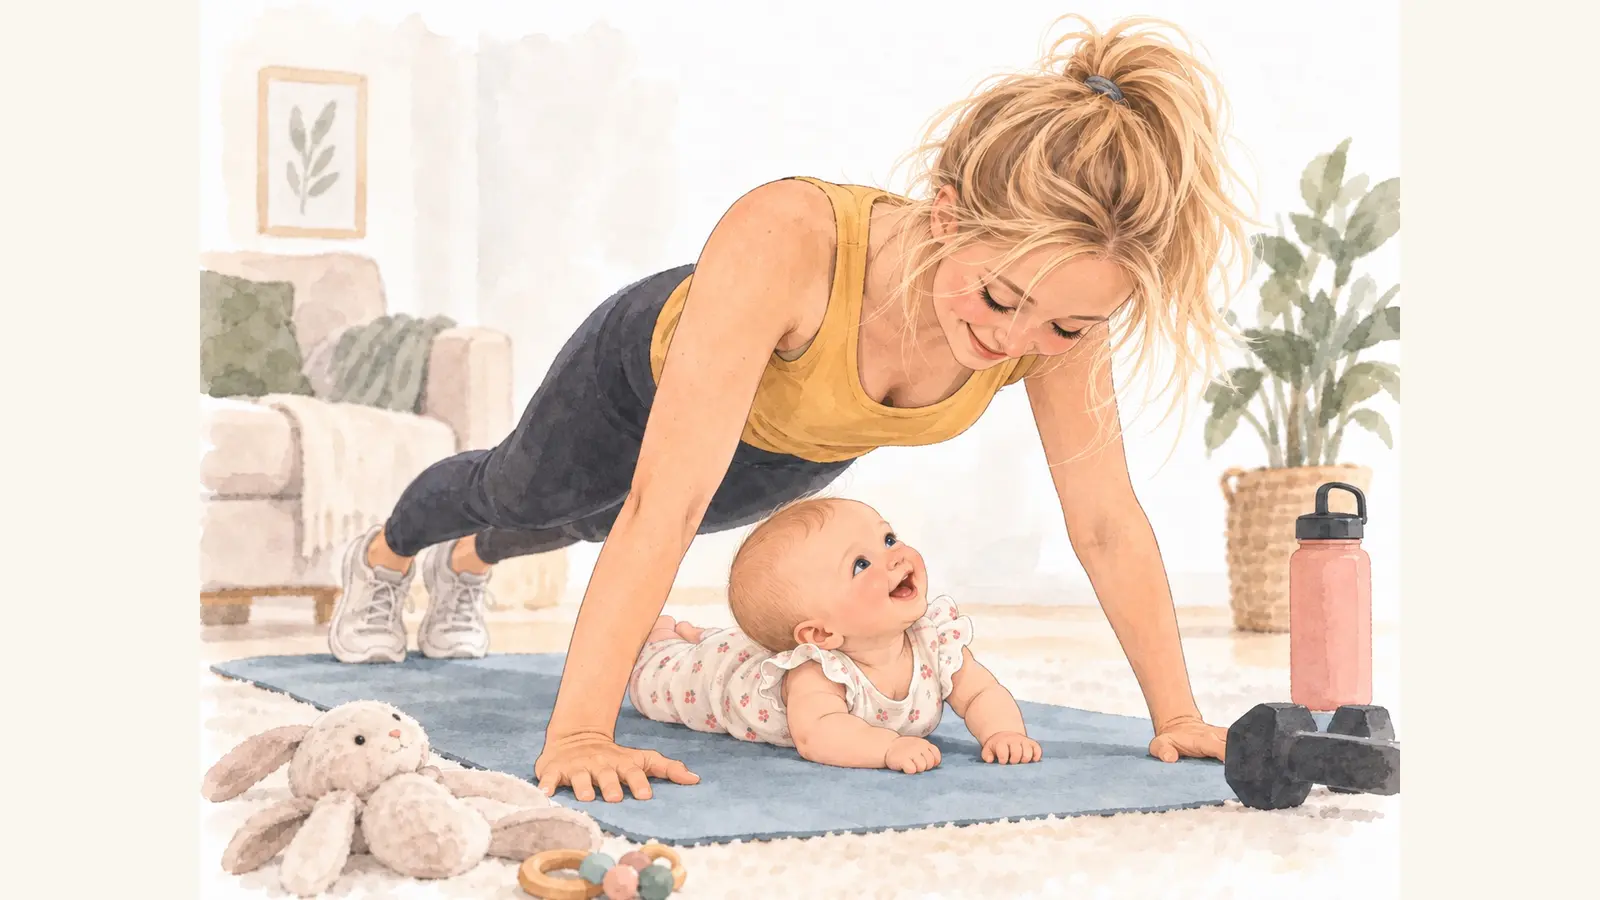
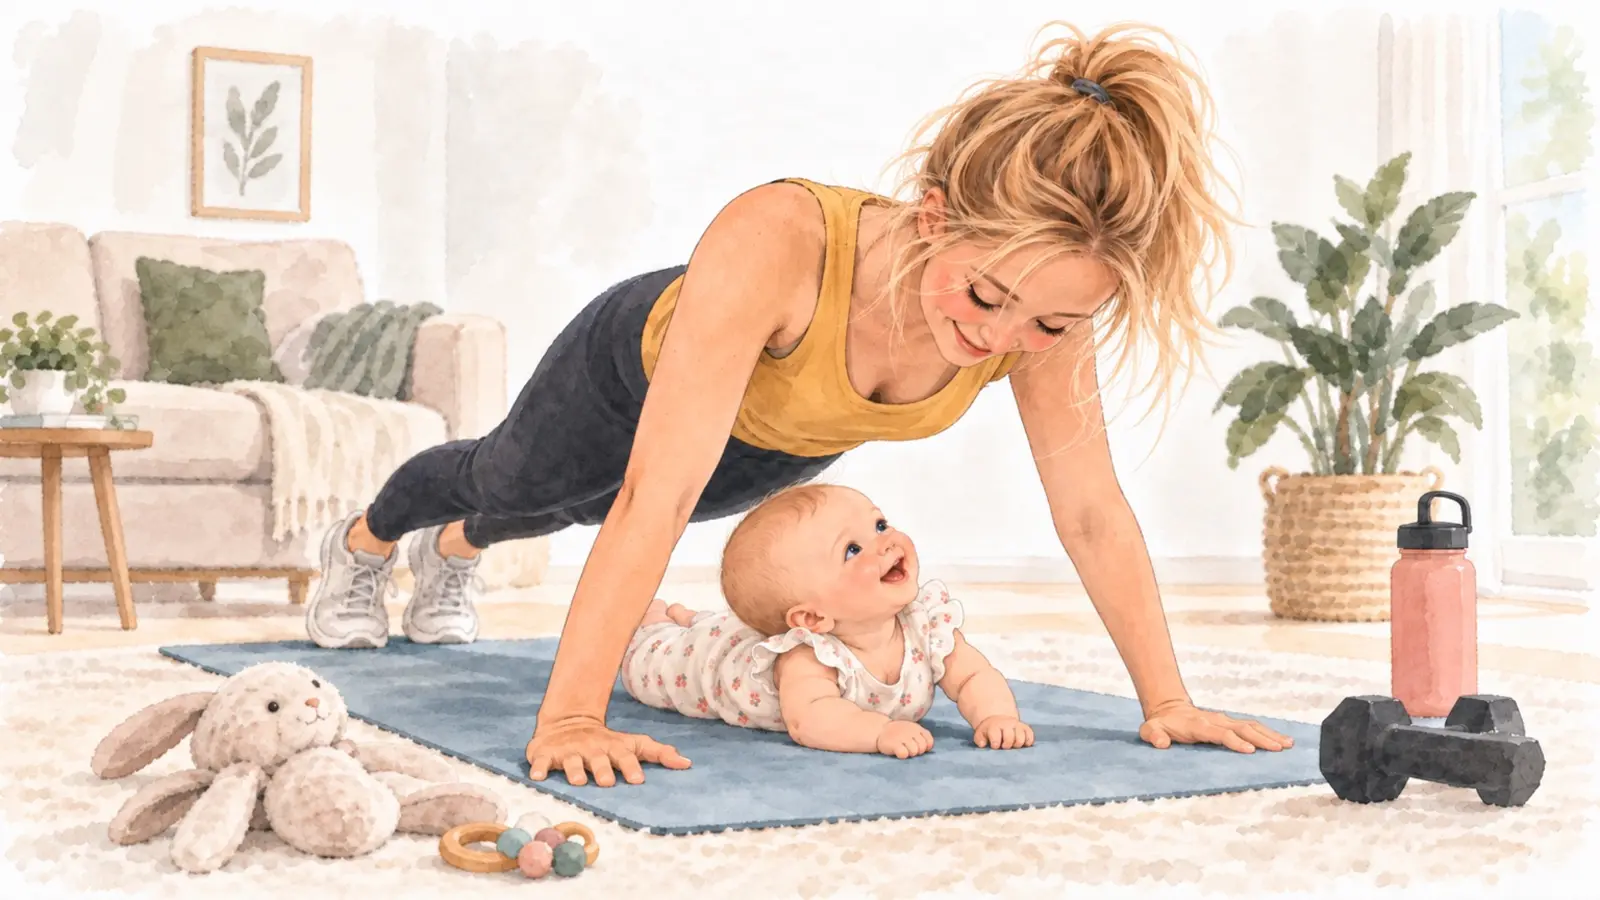
Update article 14 image and add self-care tag

diff --git a/src/lib/tags.ts b/src/lib/tags.ts
@@ -3,7 +3,8 @@ export const tagDefinitions = [
   { value: 'colère', slug: 'colere', label: 'Colère' },
   { value: 'limite', slug: 'limite', label: 'Limite' },
   { value: 'jeu', slug: 'jeu', label: 'Jeu' },
-  { value: 'imagination', slug: 'imagination', label: 'Imagination' }
+  { value: 'imagination', slug: 'imagination', label: 'Imagination' },
+  { value: 'self-care', slug: 'self-care', label: 'Self-care' }
 ] as const;
 
 export type ArticleTag = (typeof tagDefinitions)[number]['value'];

diff --git a/src/content.config.ts b/src/content.config.ts
@@ -11,7 +11,7 @@ const articles = defineCollection({
     date: z.coerce.date(),
     updated: z.coerce.date(),
     category: z.enum(['Articles', 'Livres & ressources']),
-    tags: z.array(z.enum(['émotion', 'colère', 'limite', 'jeu', 'imagination'])).min(1).max(3),
+    tags: z.array(z.enum(['émotion', 'colère', 'limite', 'jeu', 'imagination', 'self-care'])).min(1).max(3),
     image: z.string(),
     imageAlt: z.string(),
     imageWidth: z.number().default(1200),

diff --git a/src/content/articles/article-14-cinq-minutes-comptent.md b/src/content/articles/article-14-cinq-minutes-comptent.md
@@ -6,7 +6,7 @@ seoDescription: "Avec de jeunes enfants, prendre soin de soi ne ressemble pas to
 date: 2026-09-14
 updated: 2026-09-14
 category: "Articles"
-tags: ["jeu"]
+tags: ["jeu", "self-care"]
 image: "/images/articles/article-14-cinq-minutes-comptent.webp"
 imageAlt: "Illustration watercolor de Marie faisant des pompes au-dessus d’Angelina, installée sur un tapis de sport."
 imageWidth: 1600
